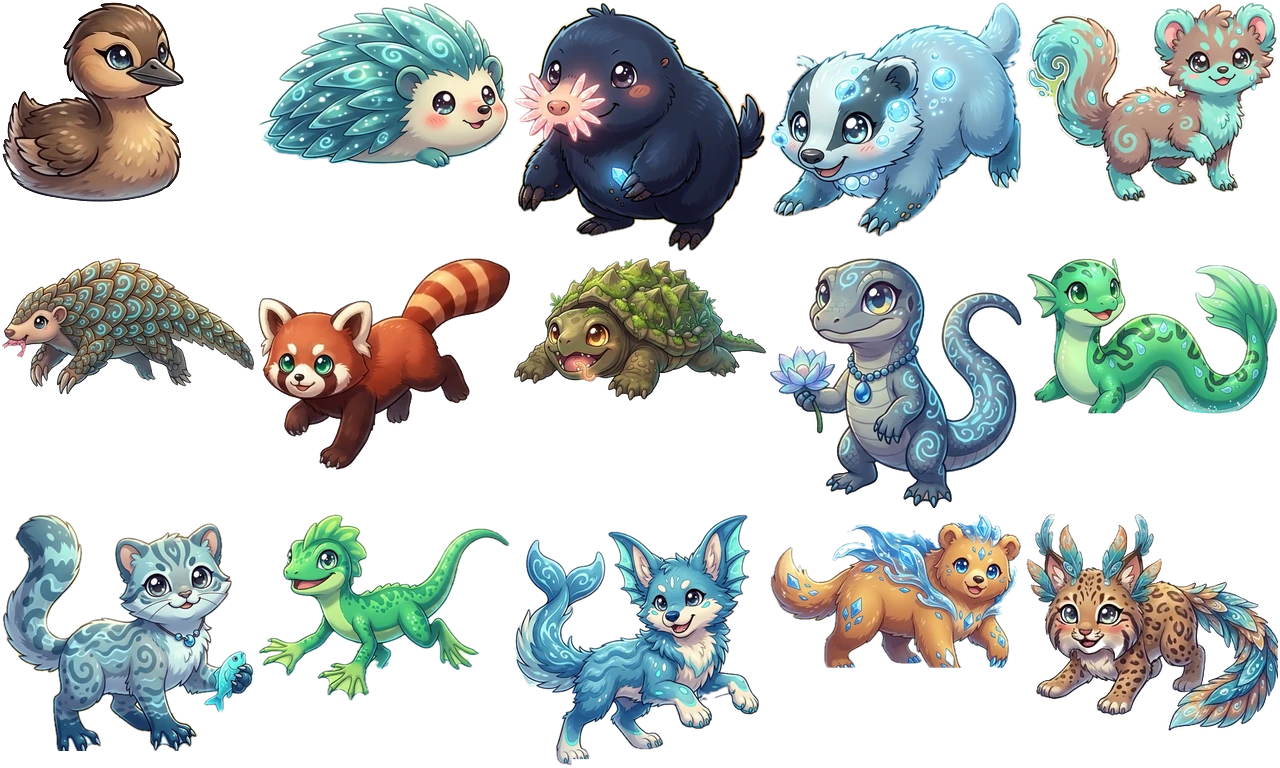
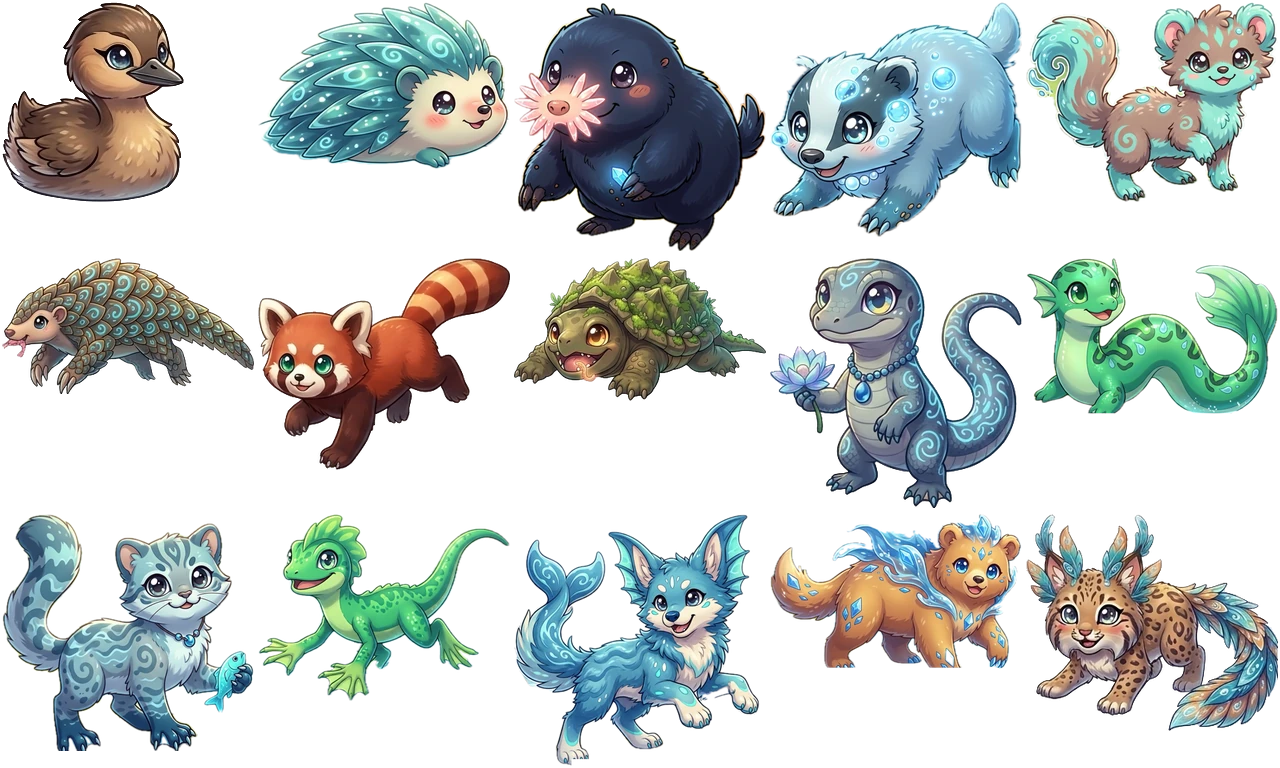
Tidesong: restore Tuftfang's chin and cheek fur

Changed region(s): [[0.8125, 0.6875, 1.0, 0.875]]

diff --git a/arcade/js/tidesong/creatureAtlas.js b/arcade/js/tidesong/creatureAtlas.js
@@ -7,4 +7,4 @@ export const creatureAtlas = {"prismreef":[[2,2,252,205],[258,2,252,180],[514,2,
 
 // A hash of each region picture, added to its address so browsers fetch
 // the new picture whenever it changes.
-export const creatureArtVersion = {"prismreef":"d20cc8d508","verdant":"070a72cadb","fluvius":"4781425dd9","pelagia":"941ec72ac7","brinewallow":"b69db1bfab","frostveil":"8fc600987e","gloomveil":"12e54daefc","cragspire":"581d9bd57d","abyssal":"733a6e8694","fangshore":"5ef6469e44"};
+export const creatureArtVersion = {"prismreef":"d20cc8d508","verdant":"070a72cadb","fluvius":"4781425dd9","pelagia":"941ec72ac7","brinewallow":"b69db1bfab","frostveil":"8fc600987e","gloomveil":"12e54daefc","cragspire":"581d9bd57d","abyssal":"733a6e8694","fangshore":"a9b7f3933a"};
